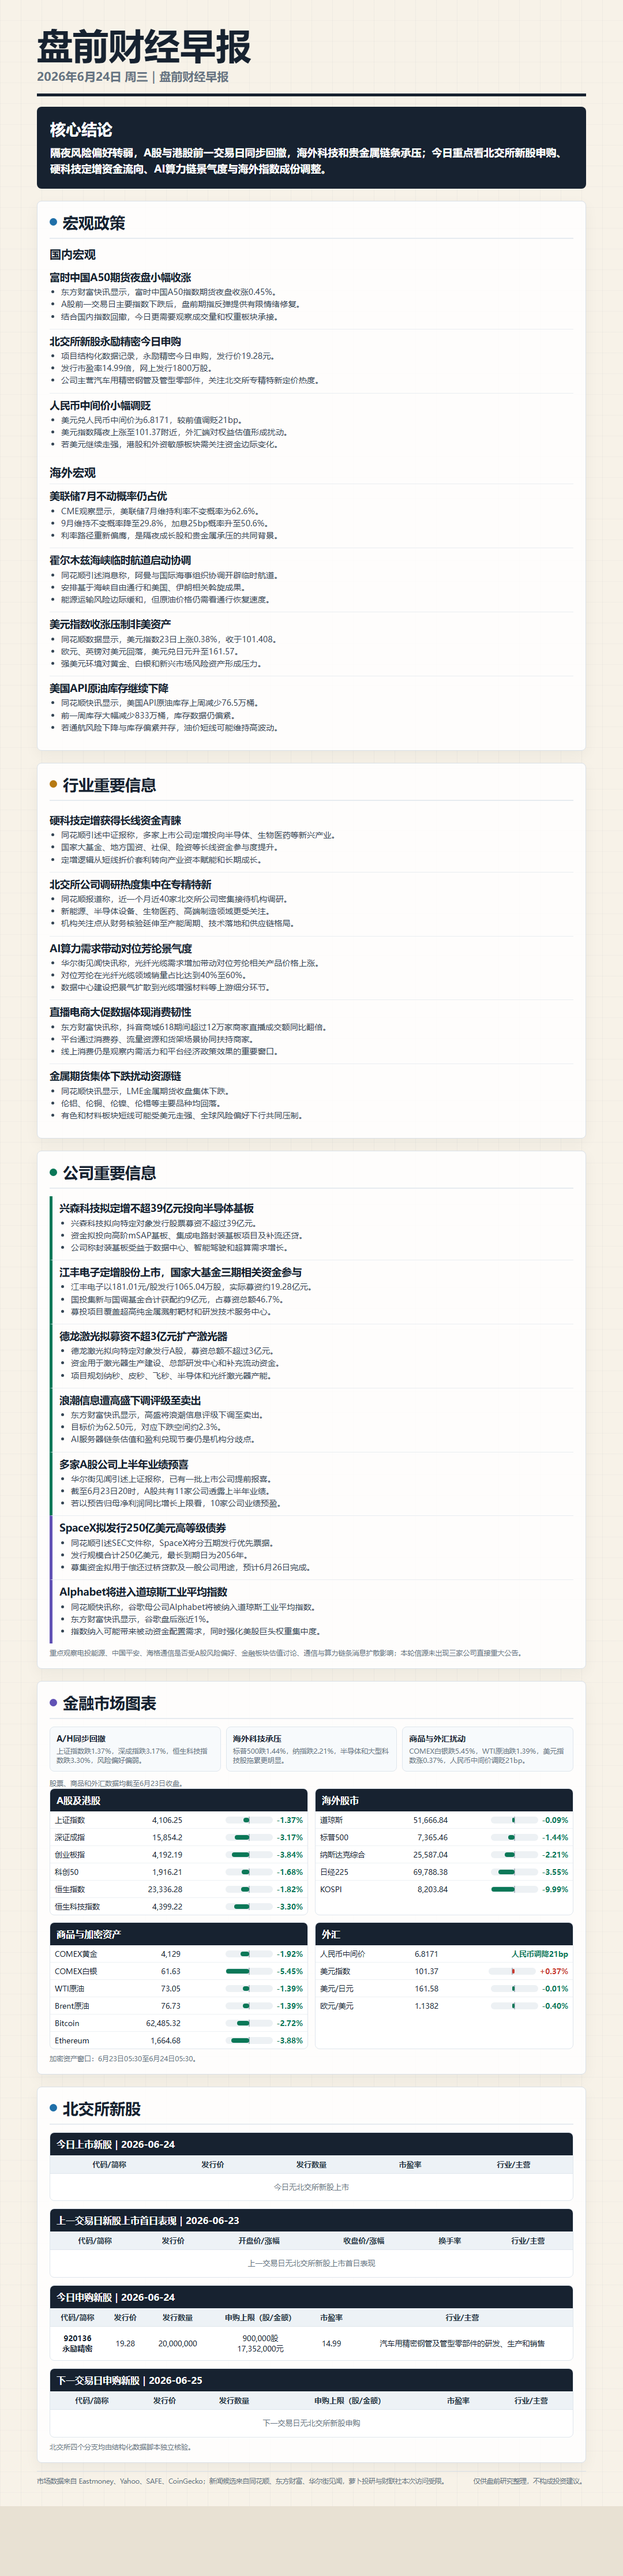
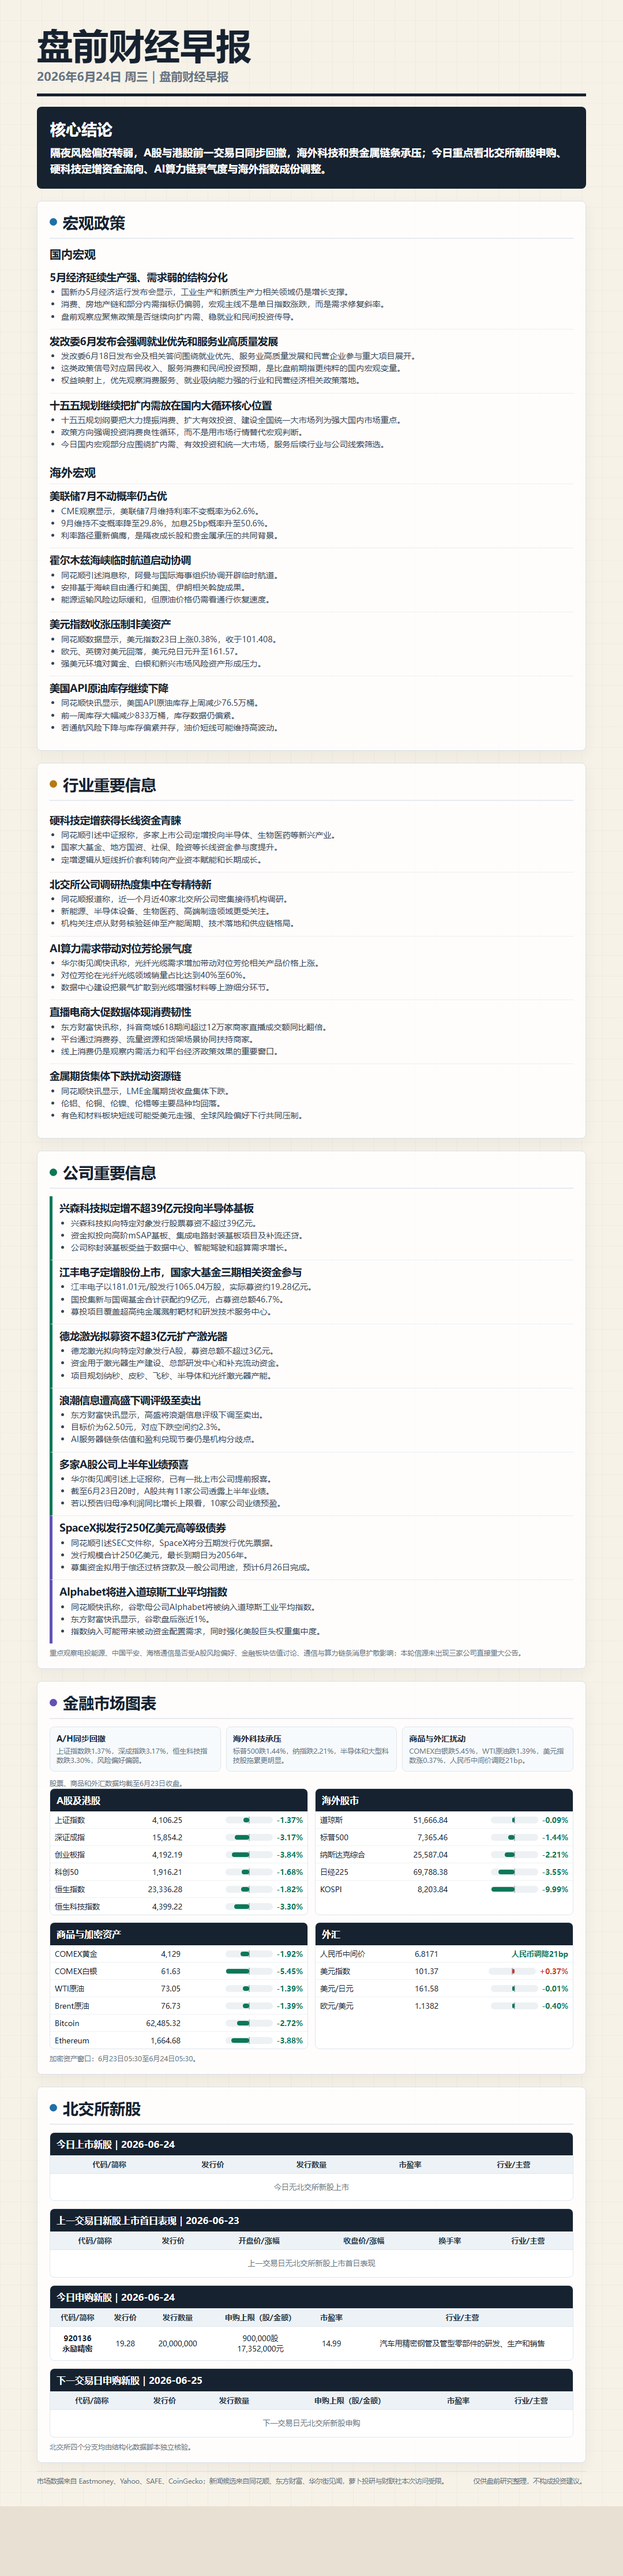
Correct 2026-06-24 morning brief

Changed region(s): [[0.0917, 0.0934, 0.6111, 0.1868]]

diff --git a/2026-06-24/report.html b/2026-06-24/report.html
@@ -26,16 +26,16 @@
   <section class="lead"><h2>核心结论</h2><p>隔夜风险偏好转弱，A股与港股前一交易日同步回撤，海外科技和贵金属链条承压；今日重点看北交所新股申购、硬科技定增资金流向、AI算力链景气度与海外指数成份调整。</p></section>
   <section class="section"><h2 class="section-title"><span class="dot"></span>宏观政策</h2><h3 class="subhead">国内宏观</h3>
     <article class="item ">
-      <h4>富时中国A50期货夜盘小幅收涨</h4>
-      <ul><li>东方财富快讯显示，富时中国A50指数期货夜盘收涨0.45%。</li><li>A股前一交易日主要指数下跌后，盘前期指反弹提供有限情绪修复。</li><li>结合国内指数回撤，今日更需要观察成交量和权重板块承接。</li></ul>
+      <h4>5月经济延续生产强、需求弱的结构分化</h4>
+      <ul><li>国新办5月经济运行发布会显示，工业生产和新质生产力相关领域仍是增长支撑。</li><li>消费、房地产链和部分内需指标仍偏弱，宏观主线不是单日指数涨跌，而是需求修复斜率。</li><li>盘前观察应聚焦政策是否继续向扩内需、稳就业和民间投资传导。</li></ul>
     </article>
     <article class="item ">
-      <h4>北交所新股永励精密今日申购</h4>
-      <ul><li>项目结构化数据记录，永励精密今日申购，发行价19.28元。</li><li>发行市盈率14.99倍，网上发行1800万股。</li><li>公司主营汽车用精密钢管及管型零部件，关注北交所专精特新定价热度。</li></ul>
+      <h4>发改委6月发布会强调就业优先和服务业高质量发展</h4>
+      <ul><li>发改委6月18日发布会及相关答问围绕就业优先、服务业高质量发展和民营企业参与重大项目展开。</li><li>这类政策信号对应居民收入、服务消费和民间投资预期，是比盘前期指更纯粹的国内宏观变量。</li><li>权益映射上，优先观察消费服务、就业吸纳能力强的行业和民营经济相关政策落地。</li></ul>
     </article>
     <article class="item ">
-      <h4>人民币中间价小幅调贬</h4>
-      <ul><li>美元兑人民币中间价为6.8171，较前值调贬21bp。</li><li>美元指数隔夜上涨至101.37附近，外汇端对权益估值形成扰动。</li><li>若美元继续走强，港股和外资敏感板块需关注资金边际变化。</li></ul>
+      <h4>十五五规划继续把扩内需放在国内大循环核心位置</h4>
+      <ul><li>十五五规划纲要把大力提振消费、扩大有效投资、建设全国统一大市场列为强大国内市场重点。</li><li>政策方向强调投资消费良性循环，而不是用市场行情替代宏观判断。</li><li>今日国内宏观部分应围绕扩内需、有效投资和统一大市场，服务后续行业与公司线索筛选。</li></ul>
     </article><h3 class="subhead">海外宏观</h3>
     <article class="item ">
       <h4>美联储7月不动概率仍占优</h4>

diff --git a/2026-06-24/sources-2026-06-24.md b/2026-06-24/sources-2026-06-24.md
@@ -6,6 +6,11 @@
 - SAFE：人民币中间价。
 - CoinGecko：Bitcoin、Ethereum 窗口快照。
 
+## 宏观政策来源
+- 国新办：2026年5月份国民经济运行情况发布会，用于国内宏观结构判断。
+- 国家发展改革委：6月份新闻发布会及就业优先、服务业高质量发展相关发布。
+- 新华社/十五五规划纲要：扩内需、有效投资、全国统一大市场等中期政策方向。
+
 ## 新闻信源
 - 同花顺：15条结构化候选；用于定增、北交所、外汇、能源、SpaceX、Alphabet等条目。
 - 东方财富：15条结构化候选；用于A50、抖音618、浪潮信息、美联储概率等条目。
